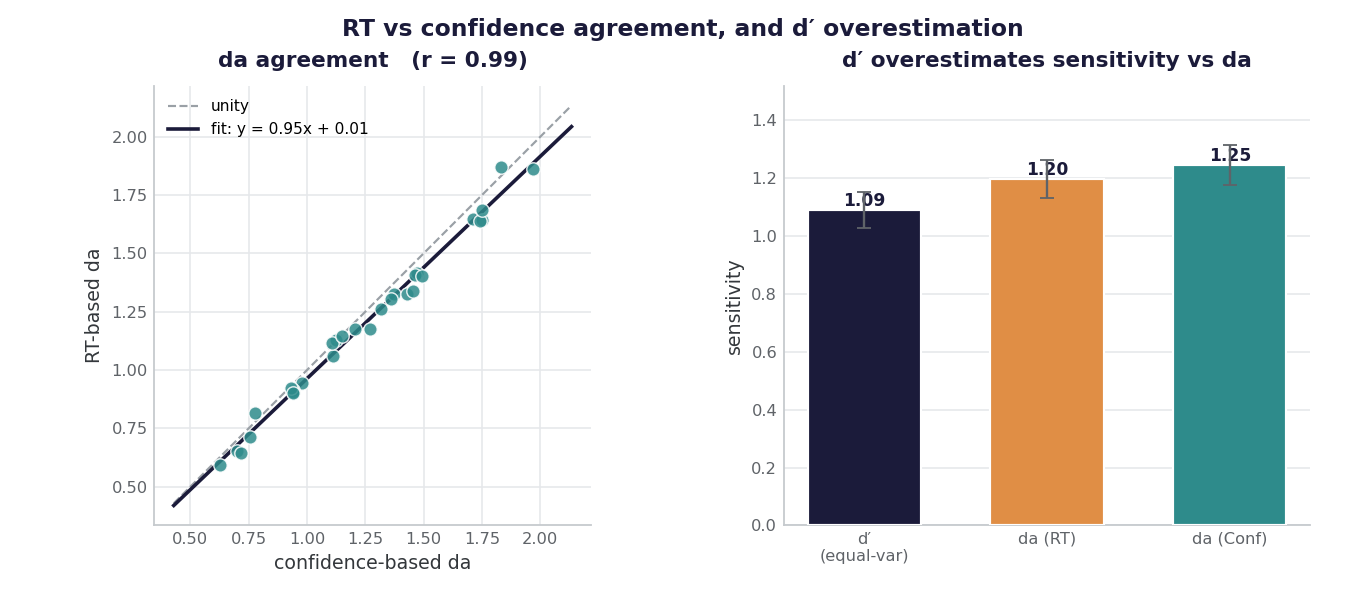
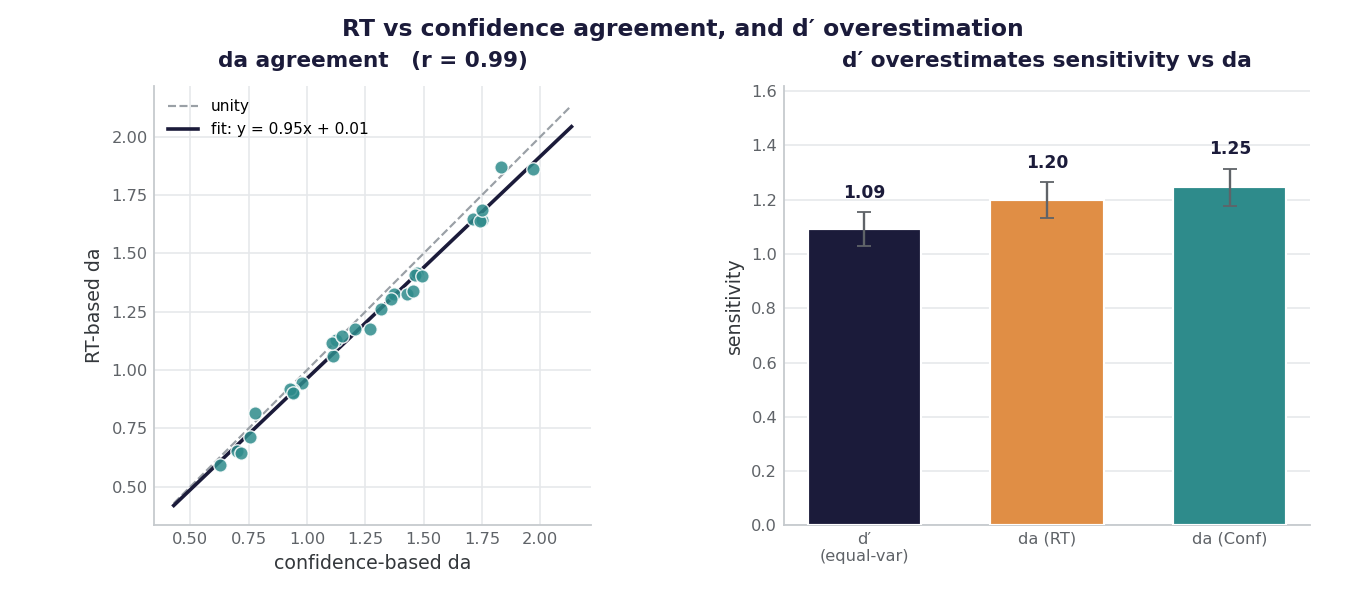
Push2 fix

diff --git a/src/rt_da/plots.py b/src/rt_da/plots.py
@@ -157,8 +157,10 @@ def plot_distributions(fit: SDTFit, ax=None):
     crit = fit.criteria[len(fit.criteria) // 2]
     ax.axvline(crit, color=_PALETTE["accent"], lw=1.6, ls=(0, (4, 2)),
                zorder=4)
-    ax.text(crit, ax.get_ylim()[1] * 0.96, "  criterion",
-            color=_PALETTE["accent"], fontsize=8.5, va="top", ha="left")
+    # label placed low and vertically along the line, clear of the legend
+    # (upper-right) and the da box (upper-left)
+    ax.text(crit, ax.get_ylim()[1] * 0.45, "criterion ", rotation=90,
+            color=_PALETTE["accent"], fontsize=8.5, va="center", ha="right")
 
     # annotate da
     ax.text(0.02, 0.96, f"da = {fit.da:.2f}", transform=ax.transAxes,
@@ -258,8 +260,10 @@ def plot_overestimation(grp_df, ax=None):
     bars = ax.bar(xpos, means, yerr=sems, width=0.62, color=colors,
                   edgecolor="white", linewidth=1.2, zorder=3,
                   error_kw=dict(ecolor="#5F6368", lw=1.3, capsize=4))
-    for b, m in zip(bars, means):
-        ax.text(b.get_x() + b.get_width() / 2, b.get_height(),
+    # place each value label just above the top of its error bar so the
+    # number never collides with the error-bar cap
+    for b, m, e in zip(bars, means, sems):
+        ax.text(b.get_x() + b.get_width() / 2, m + e + max(means) * 0.03,
                 f"{m:.2f}", ha="center", va="bottom", fontsize=9.5,
                 fontweight="bold", color=_PALETTE["accent"])
 
@@ -267,7 +271,7 @@ def plot_overestimation(grp_df, ax=None):
     ax.set_xticklabels(labels, fontsize=9.5)
     _style_ax(ax, title="d′ overestimates sensitivity vs da",
               ylabel="sensitivity")
-    ax.set_ylim(0, max(means) * 1.22)
+    ax.set_ylim(0, max(means) * 1.30)
     ax.grid(axis="x", visible=False)
     return ax
 